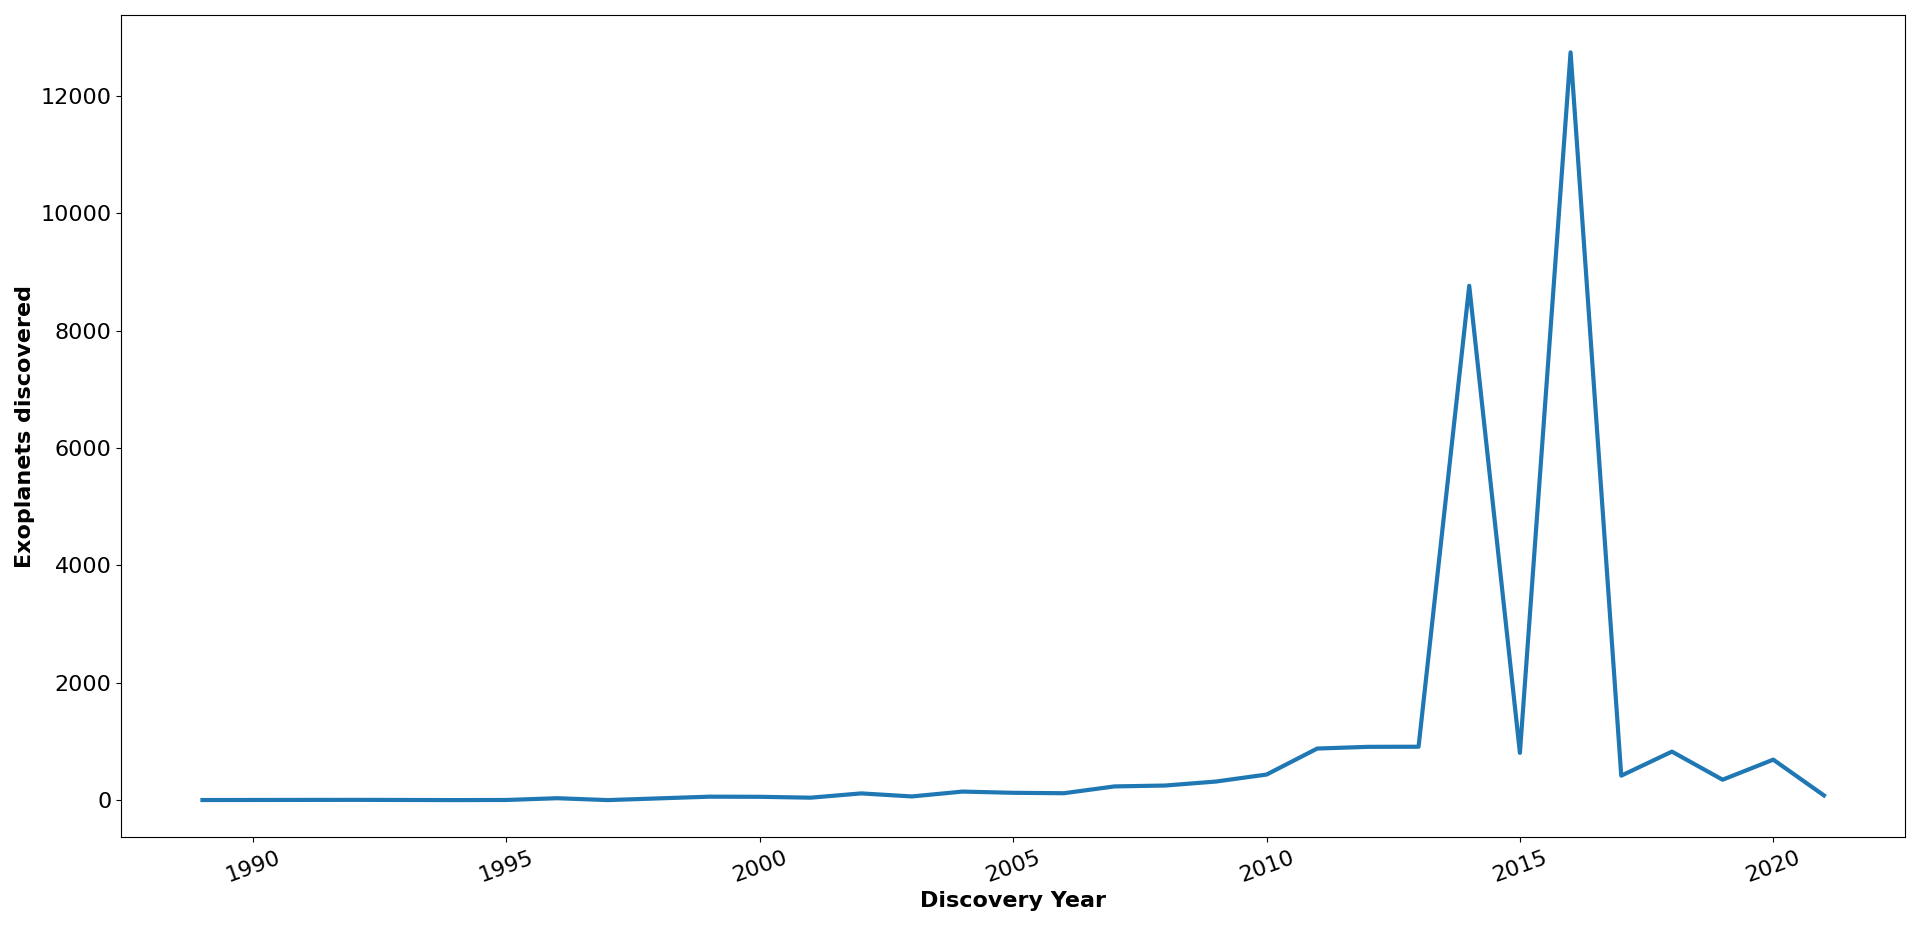
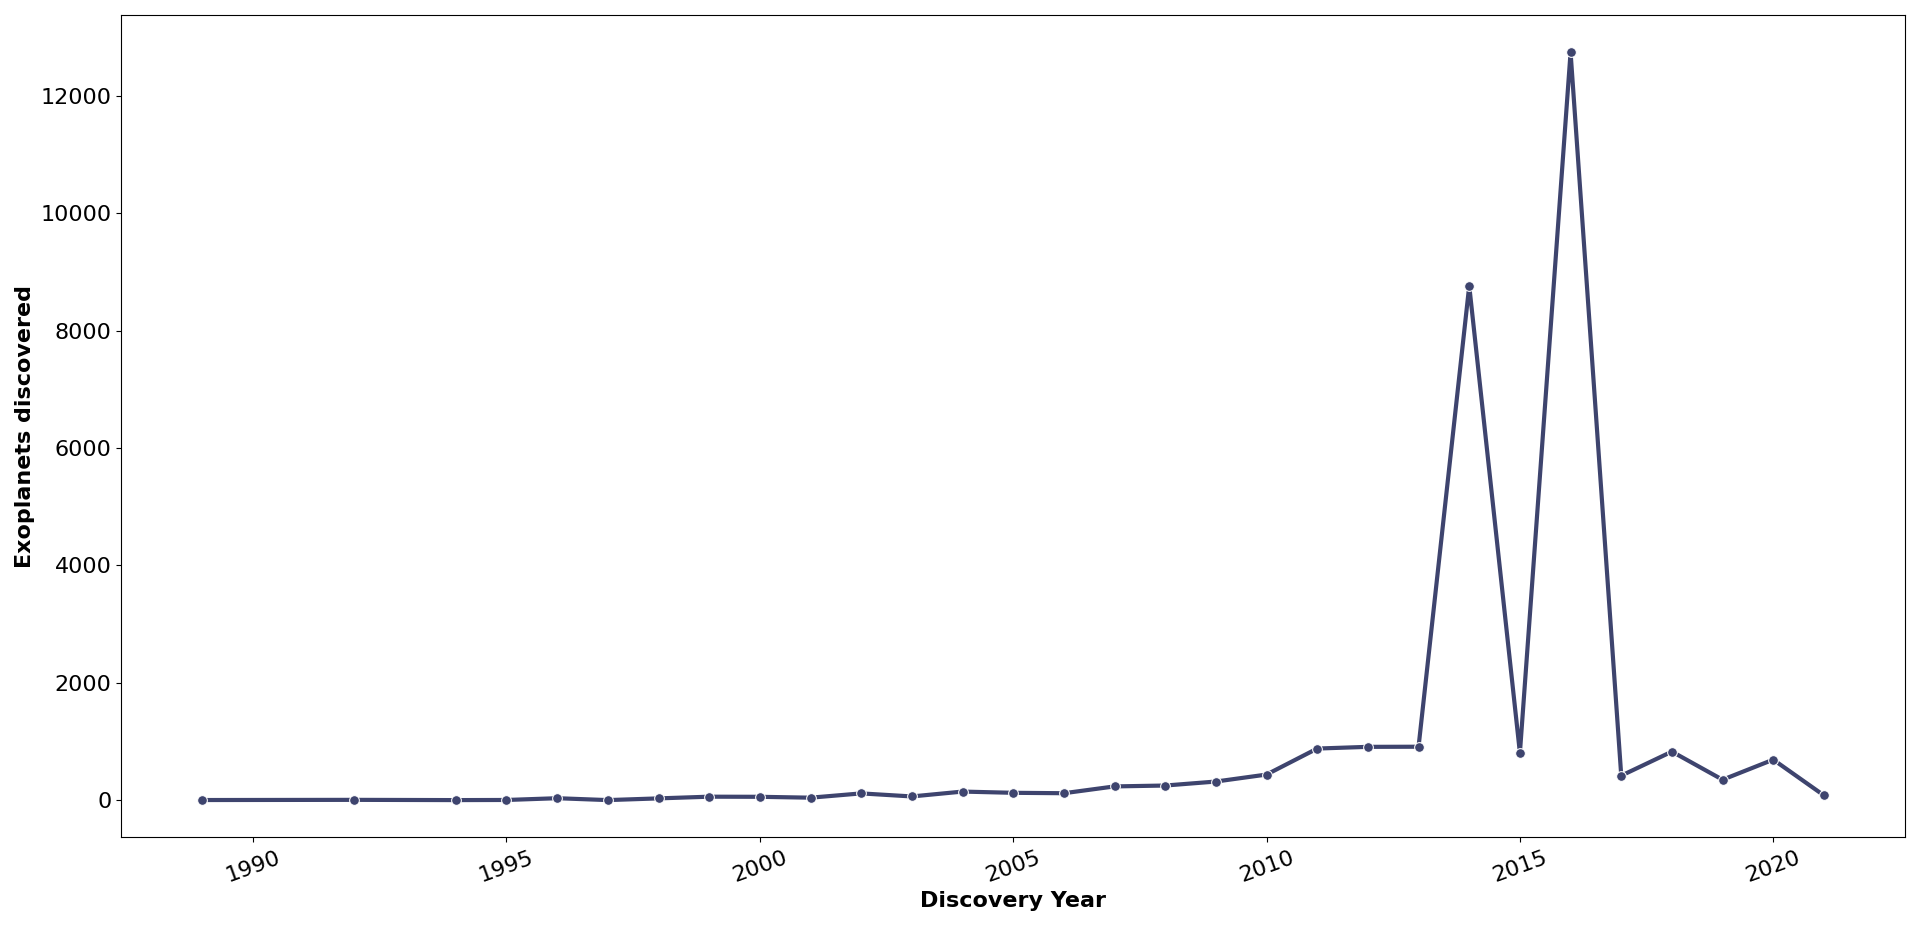
line2vars python plotly

diff --git a/Plot_types/Line_2vars/Line_2vars_Python_plotly.py b/Plot_types/Line_2vars/Line_2vars_Python_plotly.py
@@ -1,0 +1,69 @@
+
+# Paths:
+path_data = "data/"
+
+# Packages:
+import numpy as np
+import pandas as pd
+import plotly.graph_objects as go
+from matplotlib.colors import LinearSegmentedColormap, to_hex
+
+# Display options:
+pd.set_option("display.width", 1200)
+pd.set_option("display.max_columns", 300)
+pd.set_option("display.max_rows", 300)
+
+# Dataset:
+df = pd.read_csv(path_data + "nasa_exoplanets.csv")
+df_varnames = pd.read_csv(path_data + "nasa_exoplanets_var_names.csv")
+
+# Variables:
+x_var = "disc_year"
+x_var_name = df_varnames.loc[(df_varnames["var"] == x_var), ["var_name"]].values[0][0]
+y_var_name = "Exoplanets discovered"
+
+# Adapt the data:
+df_plot = df.groupby(by = x_var)[x_var].agg("count")
+df_plot = pd.DataFrame(
+    {
+        "x_var": df_plot.index.tolist(),
+        "y_var": df_plot.values,
+    }
+)
+df_plot = df_plot.sort_values("x_var")
+
+# Plot:
+cmap = LinearSegmentedColormap.from_list("my_palette", ["#111539", "#97A1D9"])
+my_palette = [to_hex(j) for j in  [cmap(i/3) for i in np.array(range(3))]]
+
+fig = go.Figure(
+    data = go.Scatter(
+        x = df_plot["x_var"],
+        y = df_plot["y_var"],
+        mode = "lines+markers",
+        line = {
+            "width": 5,
+            "color": my_palette[1]
+        },
+        marker = {
+            "size": 10,
+            "color": my_palette[1]
+        }
+    )
+)
+fig.update_layout(
+    xaxis_title = "<b>" + x_var_name + "</b>" ,
+    yaxis_title = "<b>" + y_var_name + "</b>",
+    font = dict(
+        size = 18
+    ),
+    showlegend = False,
+    plot_bgcolor = "white",
+    hoverlabel = dict(
+        font_size = 18,
+        font_family = "Rockwell"
+    )
+)
+fig.show()
+
+

diff --git a/Plot_types/Line_2vars/Line_2vars_Python_seaborn.py b/Plot_types/Line_2vars/Line_2vars_Python_seaborn.py
@@ -45,8 +45,10 @@ ax = sns.lineplot(
     data = df_plot,
     x = "x_var",
     y = "y_var",
+    marker = "o",
+    markersize = 7,
     linewidth = 3,
-    palette = my_palette[0]
+    color = my_palette[1]    
 )
 _ = ax.set_xlabel(
     x_var_name,

diff --git a/Plot_types/Line_2vars/Line_2vars_Python_matplotlib.py b/Plot_types/Line_2vars/Line_2vars_Python_matplotlib.py
@@ -43,6 +43,8 @@ fig, ax = plt.subplots(
 _ = ax.plot(
     df_plot["x_var"],
     df_plot["y_var"],
+    marker = "o",
+    markersize = 10,
     linewidth = 5,
     color = my_palette[1],
     alpha = 0.8
